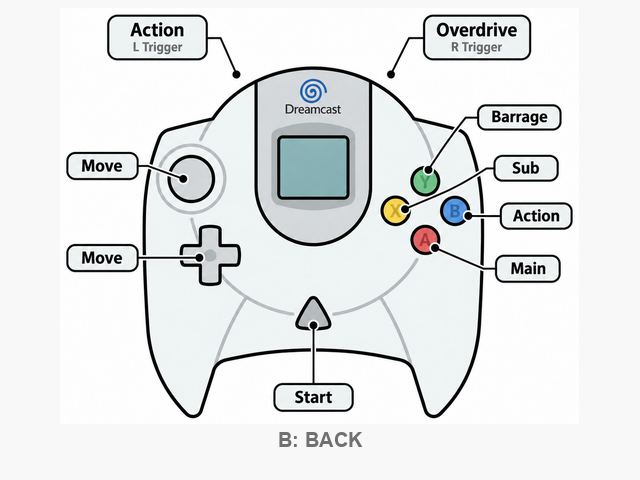
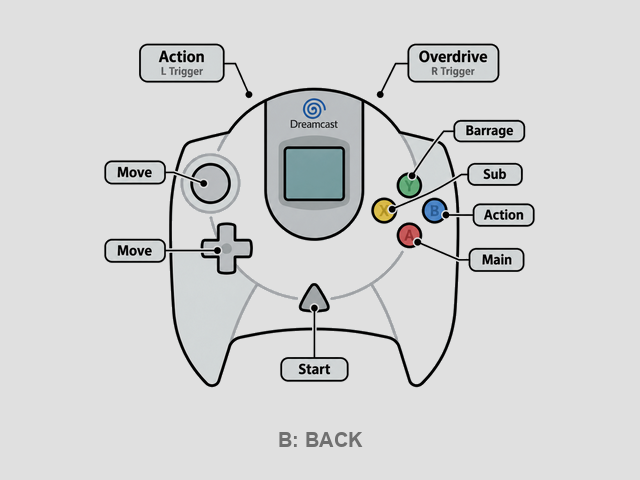
phase7 T16 round 2: gray menu BG (248->224) + pad x0.85; diagram bg flood-flattened to page gray (PIL floodfill seed==value no-op gotcha); round 1 HW PASS both cables
Claude-Session: https://claude.ai/code/session_01X6uFhpM3UtnfGFSiTQNCxS

diff --git a/scripts/gen_menu_assets.py b/scripts/gen_menu_assets.py
@@ -22,8 +22,12 @@ assert os.path.exists(FONT_PATH), f"stock macOS font missing: {FONT_PATH}"
 REPO = os.path.dirname(os.path.dirname(os.path.abspath(__file__)))
 LOADER_DIR = os.path.join(REPO, "loader")
 
-BG = (248, 248, 248)          # = splash.png bg; bmp2rgb565.py and rgb565()
-                              # truncate identically, so menu fill == splash white
+BG = (224, 224, 224)          # T16 round 2: soft gray -- operator found the
+                              # splash-white (248) menu bg too bright on a TV.
+                              # No longer matches splash.png's 248 bg; the
+                              # splash->menu transition shows a small shade
+                              # step (accepted). Exactly representable in
+                              # RGB565 (224>>3<<3 == 224).
 FG = (0x10, 0x10, 0x18)       # dark navy text (the pre-white-bg BG color)
 BLACK = (0, 0, 0)
 AMBER = (0xe0, 0xa0, 0x20)    # highlight bands (black text on top)
@@ -189,10 +193,32 @@ def main():
         pad = 12
         src = src.crop((max(bbox[0] - pad, 0), max(bbox[1] - pad, 0),
                         min(bbox[2] + pad, src.width), min(bbox[3] + pad, src.height)))
-    scale = min(620 / src.width, 416 / src.height)
+    scale = 0.85 * min(620 / src.width, 416 / src.height)  # T16 round 2:
+    # operator asked for a slightly smaller pad after seeing it on hardware
     dw, dh = round(src.width * scale), round(src.height * scale)
+    img = src.resize((dw, dh), Image.LANCZOS)
+    # tint the diagram so its own background lands exactly on the page BG:
+    # sample the bg level from the corners (inside the autocrop pad, pure
+    # bg by construction) and scale all pixels by BG/bg_level
+    g = img.convert("L")
+    bg_level = sorted(g.getpixel(p) for p in
+                      [(2, 2), (dw - 3, 2), (2, dh - 3), (dw - 3, dh - 3)])[2]
+    img = img.point(lambda p: min(255, p * BG[0] // bg_level))
+    # flatten the outer bg region to exactly BG (the tint gets it close;
+    # the diagram bg's soft gradient would still show as a faint block
+    # edge on the page without this). Interior whites (label boxes, pad
+    # body) are enclosed by dark outlines, so the fill can't reach them.
+    # thresh is PIL's summed-channel difference: 60 = ~20/channel, enough
+    # for the bg's +-8 gradient, far below the black outlines (~670).
+    # Two-pass sentinel fill: floodfill() no-ops when the seed already
+    # sits within thresh of the target value (our corners == BG by the
+    # tint above), so fill to a sentinel first, then sentinel -> BG.
+    SENTINEL = (255, 0, 255)
+    for corner in [(2, 2), (dw - 3, 2), (2, dh - 3), (dw - 3, dh - 3)]:
+        ImageDraw.floodfill(img, corner, SENTINEL, thresh=60)
+        ImageDraw.floodfill(img, corner, BG, thresh=60)
     ctrl = Image.new("RGB", (640, 480), BG)
-    ctrl.paste(src.resize((dw, dh), Image.LANCZOS), ((640 - dw) // 2, 8))
+    ctrl.paste(img, ((640 - dw) // 2, max((430 - dh) // 2, 0)))
     cd = ImageDraw.Draw(ctrl)
     check_fits(cd, 640, 480, "B: BACK", F_ROW)
     cd.text((320, 440), "B: BACK", font=F_ROW, fill=GREY, anchor="mm")

diff --git a/loader/menu_layout.h b/loader/menu_layout.h
@@ -5,7 +5,7 @@
 typedef struct { unsigned short x, y, w, h; } mrect_t;
 
 #define MENU_SHEET_W 640
-#define MENU_BG_COLOR 0xffdf
+#define MENU_BG_COLOR 0xe71c
 
 static const mrect_t MENU_TOP_LABEL[3][2] = {
   {{0,0,320,36}, {320,0,320,36}},

diff --git a/docs/kb/phase7-polishing.md b/docs/kb/phase7-polishing.md
@@ -2784,3 +2784,41 @@ labels readable on the TV, B returns to the top menu; plus the usual
 menu regression (START GAME boots, SETTINGS opens/edits). Composite
 readability is the one open question a CRT answers better than the
 decode check.
+
+### Hardware round 1 (2026-09-20, operator) — PASS both cables
+
+Diagram page verified on VGA and composite ("Looks good!"). Operator
+follow-ups → round 2: (1) the pure-white menu background is too bright
+on a TV — make it gray; (2) shrink the pad image a little.
+
+### Round 2 — gray menu BG + smaller pad (2026-09-20)
+
+- **BG 248 → 224** (`gen_menu_assets.py` BG constant — the single
+  source: sheet + controls-page pixels AND the C-side clear via the
+  generated `MENU_BG_COLOR`, `menu.c clear_bg()`). 224 is exactly
+  representable in RGB565. Known cosmetic residual: `splash.png` keeps
+  its 248 bg (ROM-derived art, untouched), so the splash→menu
+  transition shows a one-shade step — accepted.
+- **Pad scaled ×0.85** → 441×354, vertically centered above the
+  footer.
+- Diagram-vs-page seam work (the diagram's soft off-white bg showed as
+  a faint block on the gray page): tint normalizes by the corner bg
+  level (254) so the diagram bg lands on 224, then the outer bg region
+  is flood-flattened to exactly BG. **PIL gotcha, recorded:**
+  `ImageDraw.floodfill` silently no-ops when the seed pixel is already
+  within `thresh` of the fill value (its early-exit compares
+  seed↔value, summed-channel diff) — and the tint puts the corner
+  seeds AT the fill color by construction. Fix: two-pass sentinel fill
+  (bg→magenta→BG). Verified by pixel sampling: pasted-region bg ==
+  canvas == (224,224,224), zero sentinel residue.
+- Verification: `make test` green; `make gdi` → `track04.iso` md5
+  `e529a6ca6b4a3ee8e9af4a50cbaf829a`; built `controls.bin` decoded +
+  eyeballed (seam gone, pad art intact — no fill leaks), sheet
+  eyeballed (contrast holds on gray).
+
+### Operator protocol (round 2 — stop-and-wait)
+
+Deploy (md5 `e529a6ca…`): menu brightness on the TV (the point of the
+round), CONTROLS page (smaller pad, uniform gray, no bright box around
+the diagram), B back, START GAME boots, SETTINGS edits. Both cables if
+convenient — brightness is cable/TV-dependent.

diff --git a/docs/kb/00-status.md b/docs/kb/00-status.md
@@ -1224,14 +1224,15 @@ bit-2 watch item**. Full record + verdicts:
 `phase7-polishing.md` §T2. Next (own task, own approval): T3 G1-DMA/
 async cart service per `gd.c`'s recorded caveats.
 
-**Phase 7 T16 round 1 (2026-09-20, branch phase7-t16): CONTROLS page
-now shows the operator's pad diagram instead of the text list —
-hardware visual round owed.** Labels audited against
+**Phase 7 T16 (2026-09-20, branch phase7-t16): CONTROLS pad diagram —
+round 1 hardware PASS both cables; round 2 (gray menu BG 248→224 +
+pad ×0.85) built, hardware round owed.** Labels audited against
 `docs/kb/input-map.md` before wiring (all seven match). Zero loader C
-changes (fixed-size blob, pixels only); `gen_menu_assets.py` autocrops
-+ scales the diagram (519×416 on the page). Static PASS: tests green,
-built `controls.bin` decoded and eyeballed, `track04.iso` md5
-`56805cbe…`. `phase7-polishing.md` §T16.
+changes (fixed-size blob, pixels only; BG flows through the generated
+`MENU_BG_COLOR`). Round-2 static PASS: tests green, built
+`controls.bin` decoded + pixel-sampled (diagram bg flood-flattened to
+page gray — PIL floodfill early-exit gotcha recorded in §T16),
+`track04.iso` md5 `e529a6ca…`. `phase7-polishing.md` §T16.
 
 **Phase 7 T10 CLOSED (2026-09-20, branch phase7-t10): load floor
 REACHED; cosmetic frame-pin declined by operator.** First `TIME=1`
